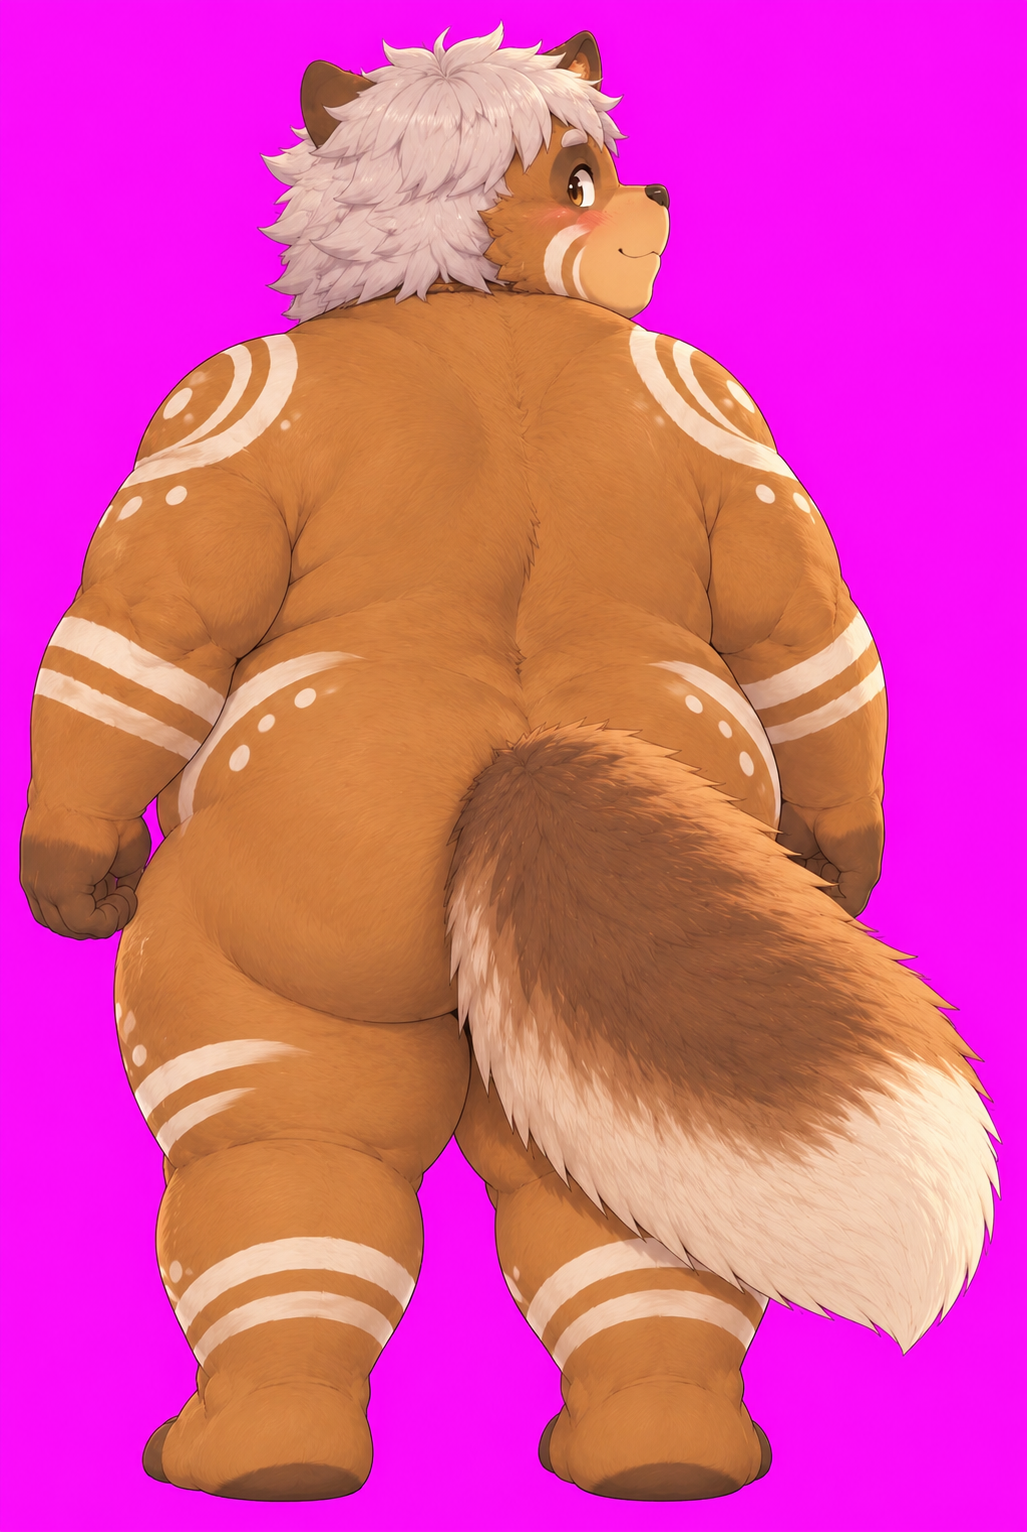
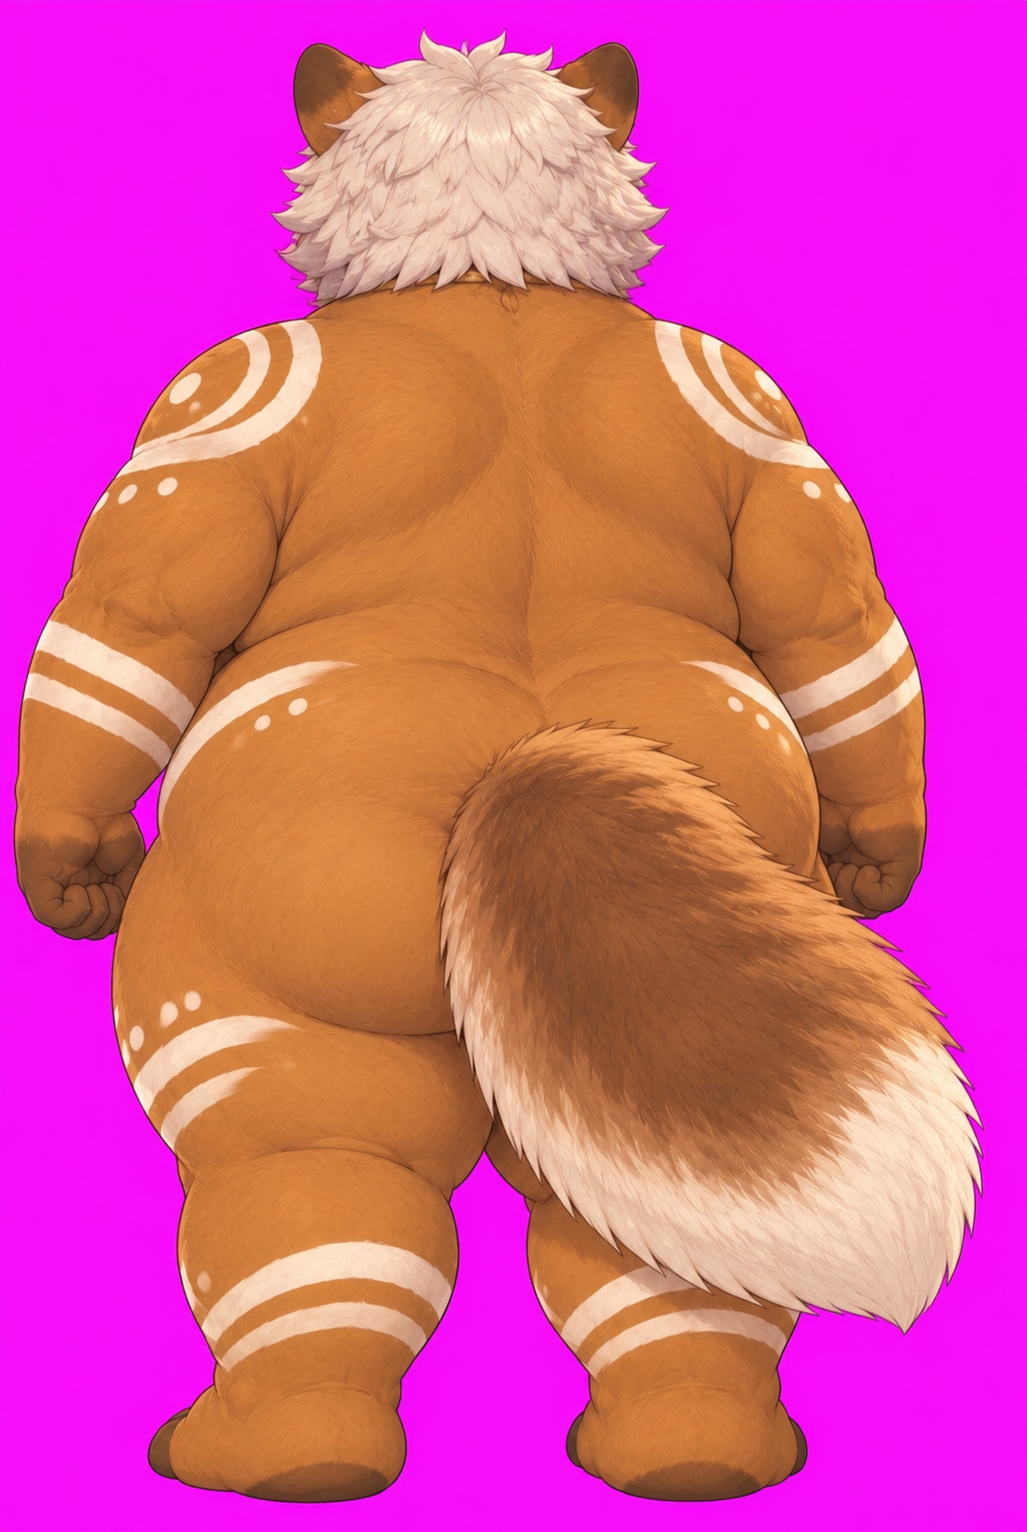
洗うゲーム：うしろの絵を真後ろの絵に差しかえ（ふり返りの絵は耳の位置が不自然）、お尻の揺れる範囲を合わせた
Claude-Session: https://claude.ai/code/session_01DyLyAk1Z5w7HyACD7LnYMX

Changed region(s): [[0.0, 0.0, 0.9971, 0.9817]]

diff --git a/tanukun/washing/washing.js b/tanukun/washing/washing.js
@@ -50,7 +50,7 @@ const SRC = {
   banzai:   'img/banzai.webp',             // ばんざい（脇を洗う。720×940）
   mojimoji: 'img/mojimoji.webp',           // もじもじ（お股のあたり。720×940）
   shake:    'img/shake.webp',              // ぶるぶる（720×940）
-  back:     'img/back.webp',               // うしろ（ふり返り。720×940）
+  back:     'img/back.webp',               // うしろ（真後ろ。720×940）
   happy:    '../images/happy.webp',        // くすぐったい（笑う）… 顔だけ使う
   melt:     '../images/melt.webp',         // うっとり（頭を洗う）
   shy:      '../images/shy.webp',          // えへへ（おなか）
@@ -86,8 +86,8 @@ const ZONES = {
   banzai: [{ cx: 290, cy: 452, rx: 168, ry: 108, s: 'jb', f: 1, name: 'belly' },
            { cx: 210, cy: 300, rx: 72, ry: 50, s: 'jcL', f: 0.3, name: 'chest' },
            { cx: 385, cy: 312, rx: 70, ry: 50, s: 'jcR', f: 0.3, name: 'chest' }],
-  back:   [{ cx: 232, cy: 512, rx: 102, ry: 82, s: 'jb', f: 1, name: 'butt' },
-           { cx: 392, cy: 500, rx: 84, ry: 76, s: 'jcR', f: 0.6, name: 'butt' }],
+  back:   [{ cx: 234, cy: 495, rx: 100, ry: 90, s: 'jb', f: 1, name: 'butt' },
+           { cx: 410, cy: 485, rx: 90, ry: 82, s: 'jcR', f: 0.6, name: 'butt' }],
   mojimoji: [], shake: []
 };
 const CROTCH = { x0: 178, x1: 335, y0: 528 };                        // まえ：お股のあたり（おけのふちの上）
@@ -251,8 +251,7 @@ function bubbleAt(x, cx, cy, r) {
   x.fillStyle = 'rgba(255,255,255,1)'; x.beginPath(); x.arc(cx - r * 0.35, cy - r * 0.35, r * 0.25, 0, Math.PI * 2); x.fill();
 }
 // 泡は、マスごとに上限まで（同じ所をこすり続けても、もこもこになりすぎない）。まえの顔の上にはのせない
-const BACK_FACE = { cx: 405, cy: 112, rx: 52, ry: 58 };   // うしろ：ふり返った横顔
-const onFace = (x, y, pose) => (pose === 'back' ? inE(x, y, BACK_FACE) : ((x - FACE.cx) / (FACE.rx * 0.95)) ** 2 + ((y - FACE.cy + 8) / (FACE.ry * 0.95)) ** 2 < 1);
+const onFace = (x, y, pose) => pose !== 'back' && ((x - FACE.cx) / (FACE.rx * 0.95)) ** 2 + ((y - FACE.cy + 8) / (FACE.ry * 0.95)) ** 2 < 1;   // うしろは真後ろの絵なので顔なし
 function addFoam(sd, pose, px, py, R, n) {
   for (let i = 0; i < (n || 2); i++) {
     const a = Math.random() * Math.PI * 2, d = Math.sqrt(Math.random()) * R * 0.9, cx = px + Math.cos(a) * d, cy = py + Math.sin(a) * d;
@@ -281,7 +280,7 @@ function partAt(x, y) {
   if (!isBody(x, y)) return null;
   if (p === 'back') {
     if (y < 165) return 'head';
-    if (x > 335 && y > 405 && !inE(x, y, ZONES.back[0])) return 'tail';
+    if (x > 320 && y > 400 && !inE(x, y, ZONES.back[0])) return 'tail';
     if (inE(x, y, ZONES.back[0])) return 'butt';
     if (x < 135 || x > 520) return 'arm';
     return 'back';

diff --git a/tanukun/tools/make_washing_art.py b/tanukun/tools/make_washing_art.py
@@ -33,7 +33,7 @@ ART = {
     'banzai':   ('banzai_src.png',   0.5975, 52, -20, PAD),   # 重なり 93%（下半身）
     'mojimoji': ('mojimoji_src.png', 0.5925, 62, -5, PAD),    # 重なり 90%
     'shake':    ('shake_src.png',    0.59,   55, -4, PAD),    # 重なり 91%
-    'back':     ('back_src.png',     0.6025, 50, -31, PAD),   # 後ろ向き（大きさと足の位置をそろえた）
+    'back':     ('back_src.png',     0.6125, 51, -39, PAD),   # 真後ろ（大きさと足の位置をそろえた。ふり返りの絵は耳の位置が不自然なのでやめた）
 }
 # 小物のまとめ絵（items_src.png）を切り分けたときの名前（左上から右へ、上の段から順に）
 ITEMS = ['conch', 'clam', 'star', 'kelp1', 'kelp2', 'sand1', 'sand2', 'sand3', 'mud1', 'mud2', 'brush', 'dryer', 'bamboo']

diff --git a/tanukun/HANDOFF.md b/tanukun/HANDOFF.md
@@ -20,7 +20,7 @@
 - **ユーザーに Gemini のプロンプトを渡した（届くのを待っている）**：①もじもじ（両手で前を隠す）②後ろ向き（お尻・背中・しっぽ）③ばんざい（脇）
   ④小物のまとめ絵（貝がら・ヒトデ・コンブ・砂よごれ・泥はね・ブラシ・ドライヤー・竹のシャワー）⑤ぶるぶる ⑥〜⑧特別イラスト（泡あわ・タオルでほかほか・ドライヤーでもふもふ大爆発）。
   届いたら：重なり・はしの切れ・背景の抜けを確かめる → make_washing_art.py の ART に足す（FIT は立ち絵と形が重なる値を探す）
-- **2026-11-01 Gemini の絵が届いた（9枚から選んだ）**：採用＝後ろ向き・ふり返り（back_src.png）・ぶるぶる（shake_src.png）・ばんざい（目を閉じて口を開けた方。banzai_src.png）・
+- **2026-11-01 Gemini の絵が届いた（9枚から選んだ）**：採用＝後ろ向き（**2026-11-01 夜に真後ろの絵へ差しかえ**：ふり返りの絵は、顔は横向きなのに耳が後ろ向きの位置に残って不自然＝ユーザーの指摘。back_src.png）・ぶるぶる（shake_src.png）・ばんざい（目を閉じて口を開けた方。banzai_src.png）・
   小物のまとめ絵（items_src.png → item_*.webp 13こに切り分け）・もじもじ（mojimoji_src.png。**仮採用：腕でおなかが細く見える**。描き直すなら「おなかはまるく大きいまま、手はおなかの下で重ねる」）。
   不採用＝ばんざい（歯を見せた方。しっぽの先が切れている）・後ろ向き（背中の模様が別物・指が開いて爪っぽい）。予備＝顔を向けない後ろ向き・もう1枚のふり返り（リポジトリには入れていない）。
   make_washing_art.py に追加（stand 以外は 720×940、上に 40px の余白。ゲームでは y=-40 に置く）。
